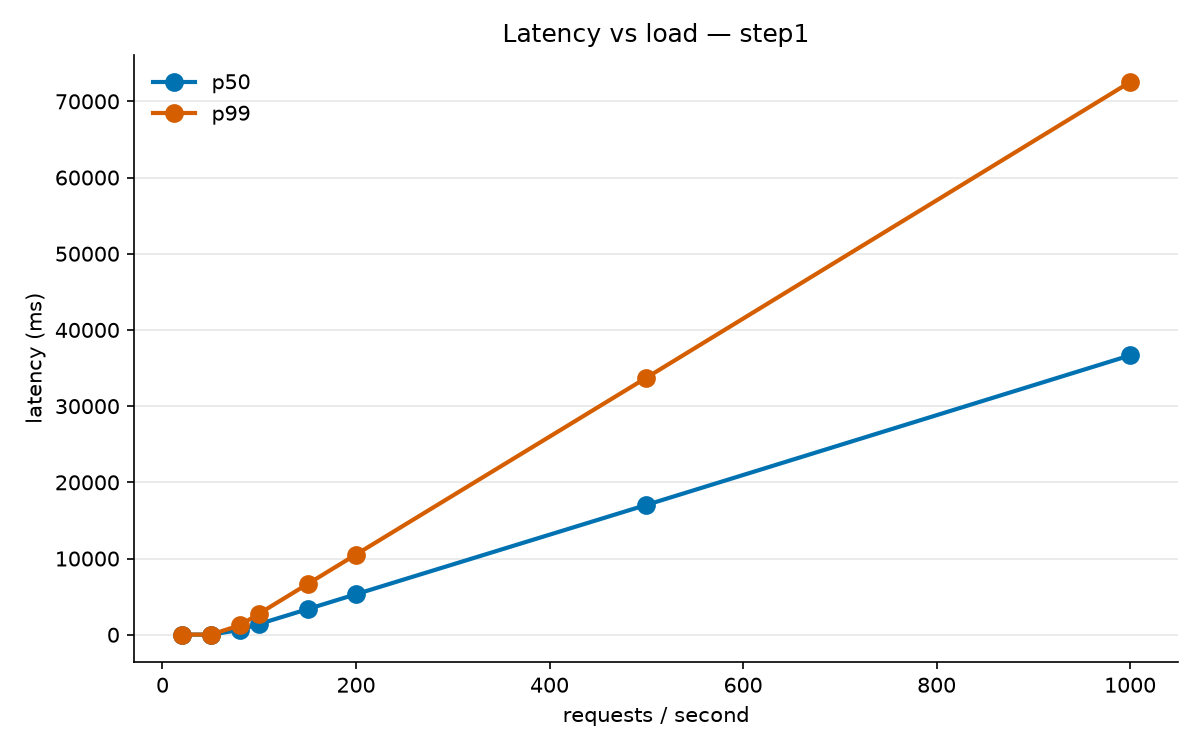
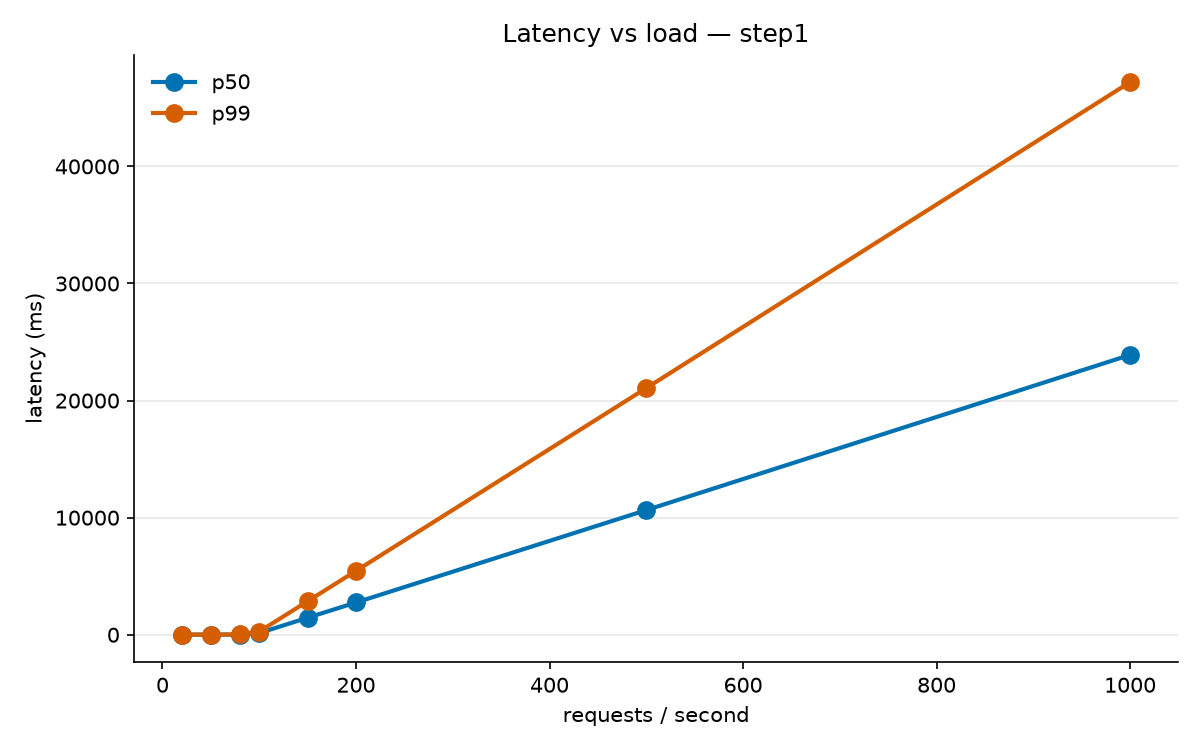
Fix fake model timing precision with hybrid sleep/spin

diff --git a/main.cpp b/main.cpp
@@ -49,7 +49,21 @@ struct Request {
 // Cost = 10 ms base + 0.5 ms per item. Output = sum of each input.
 std::vector<float> RunModel(const std::vector<std::unique_ptr<Request>>& batch) {
   auto cost = std::chrono::microseconds(10000 + 500 * batch.size());
-  std::this_thread::sleep_for(cost);
+  auto deadline = Clock::now() + cost;
+
+  // Hybrid wait: this host's sleep_for() itself is quantized to ~10-20ms
+  // even with timeBeginPeriod(1) (measured directly), so a small margin
+  // isn't enough slack — sleep_for(cost - 2ms) still overshoots the
+  // deadline on ~80% of calls here. 12ms was empirically the smallest
+  // margin that landed on the exact deadline consistently (10/10 trials);
+  // sleep for the coarse majority, then spin against the clock for the rest.
+  constexpr auto kSpinMargin = std::chrono::milliseconds(12);
+  if (cost > kSpinMargin) {
+    std::this_thread::sleep_for(cost - kSpinMargin);
+  }
+  while (Clock::now() < deadline) {
+  }
+
   std::vector<float> outputs;
   for (const auto& r : batch) {
     float sum = 0;
